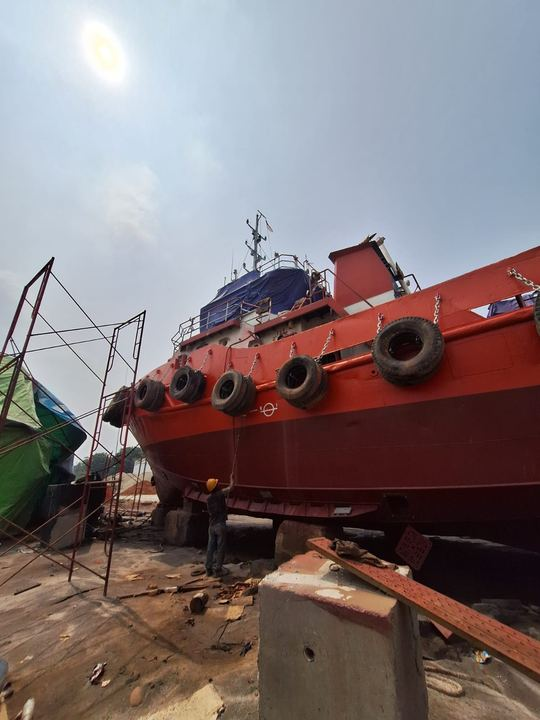
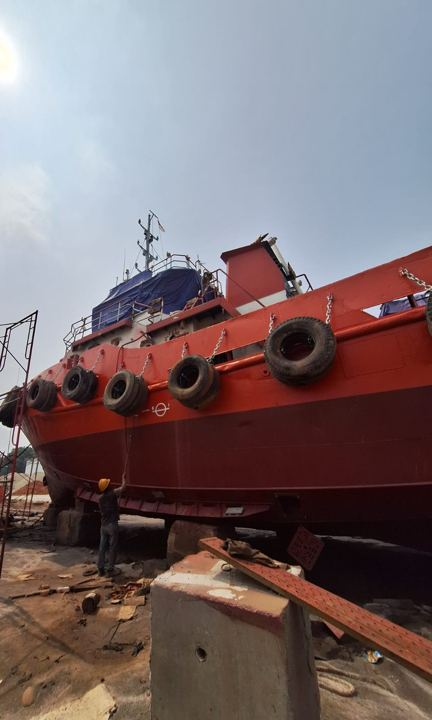
Unblurred hero, HD tug photo for About, crop tarps from tug photos
Claude-Session: https://claude.ai/code/session_01N7PvFZyTVamPb1fyLSBNFM

diff --git a/index.html b/index.html
@@ -79,7 +79,7 @@
 <!-- ============ ABOUT ============ -->
 <section class="about" id="tentang">
   <div class="about-band">
-    <div class="about-media"><img src="assets/img/yard-overview.jpg" alt="Area galangan PT. Cipta Piramida Mandiri dengan crane dan bangunan workshop" loading="lazy"><span class="about-caption">Keahlian lokal. Komitmen pada kualitas.</span></div>
+    <div class="about-media"><img src="assets/img/about-tugboat.jpg" alt="Tugboat di atas landasan galangan PT. Cipta Piramida Mandiri" loading="lazy"><span class="about-caption">Keahlian lokal. Komitmen pada kualitas.</span></div>
     <div class="container about-inner">
       <div class="about-content">
         <p class="eyebrow">Tentang Kami</p>

diff --git a/assets/css/style.css b/assets/css/style.css
@@ -684,3 +684,4 @@ body.lightbox-open { overflow: hidden; }
 .area-value { color: var(--white); }
 .area-value small { color: var(--blue-light); }
 .area-label { color: #b0c6d7; }
+.about-media img { object-position: 65% center; }
